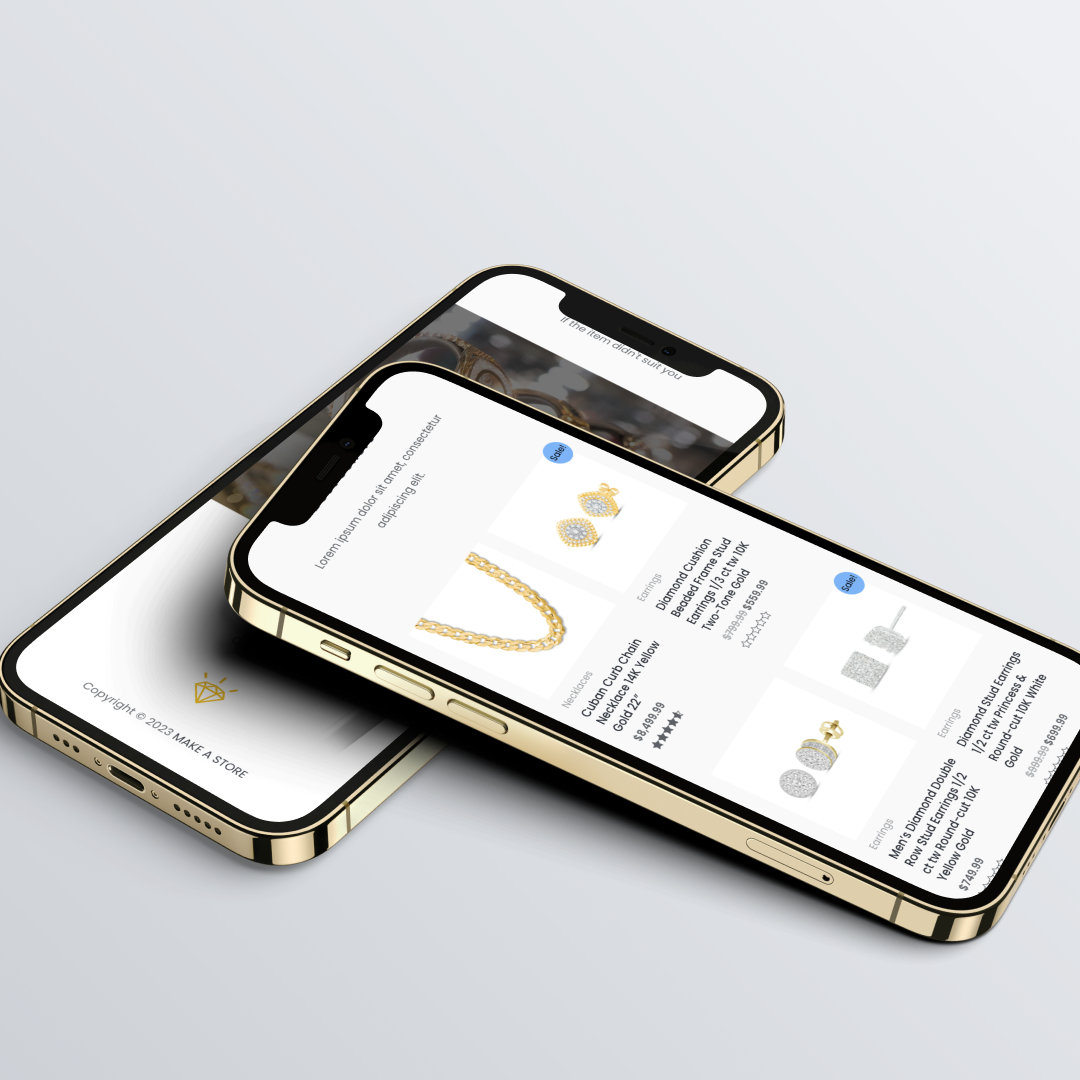
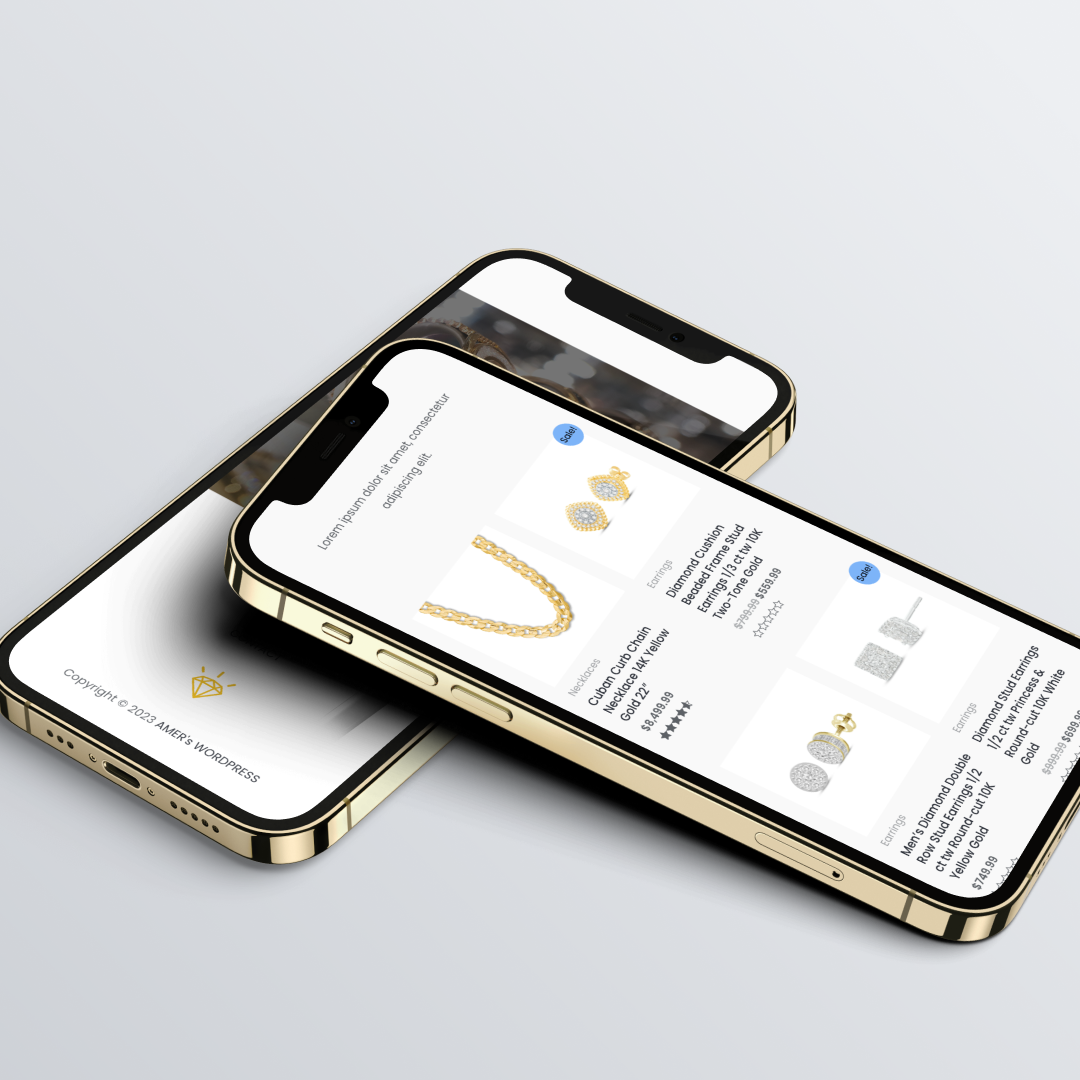
updated wp images

Changed region(s): [[0.0, 0.2139, 1.0, 0.8861], [0.0611, 0.6111, 0.0917, 0.6417]]

diff --git a/style.css b/style.css
@@ -1276,10 +1276,10 @@ body.menu-open .sidebar-nav-box {
 
 .preview-logo-layer {
   position: absolute;
-  top: 0;
-  bottom: 0;
-  left: 0;
-  right: 0;
+  top: 0px;
+  bottom: 8px;
+  left: 0px;
+  right: 0px;
   display: -webkit-box;
   display: -ms-flexbox;
   display: flex;
@@ -2526,6 +2526,9 @@ body.menu-open .sidebar-contact-info {
 }
 
 @media only screen and (max-width: 1300px) {
+  .preview-logo-layer {
+    bottom: 16px;
+  }
   .close-btn-text {
     display: initial;
   }
@@ -2613,6 +2616,9 @@ body.menu-open .sidebar-contact-info {
 }
 
 @media only screen and (max-width: 940px) {
+  .preview-logo-layer {
+    bottom: 8px;
+  }
   #projects-promo {
     height: initial;
     padding-bottom: 30px;
@@ -2911,6 +2917,9 @@ body.menu-open .sidebar-contact-info {
 }
 
 @media only screen and (max-width: 500px) {
+  .preview-logo-layer {
+    bottom: 16px;
+  }
   #osc-project .preview-logo {
     -webkit-transform: initial;
             transform: initial;

diff --git a/style.scss b/style.scss
@@ -975,10 +975,10 @@ body.menu-open .sidebar-nav-box {
 }
 .preview-logo-layer {
   position: absolute;
-  top: 0;
-  bottom: 0;
-  left: 0;
-  right: 0;
+  top: 0px;
+  bottom: 8px;
+  left: 0px;
+  right: 0px;
   display: flex;
   flex-direction: column;
   justify-content: center;
@@ -1917,6 +1917,9 @@ body.menu-open .sidebar-contact-info {
   }
 }
 @media only screen and (max-width: 1300px) {
+  .preview-logo-layer {
+    bottom: 16px;
+  }
   .close-btn-text {
     display: initial;
   }
@@ -1992,6 +1995,9 @@ body.menu-open .sidebar-contact-info {
   }
 }
 @media only screen and (max-width: 940px) {
+  .preview-logo-layer {
+    bottom: 8px;
+  }
   #projects-promo {
     height: initial;
     padding-bottom: 30px;
@@ -2247,6 +2253,9 @@ body.menu-open .sidebar-contact-info {
   }
 }
 @media only screen and (max-width: 500px) {
+  .preview-logo-layer {
+    bottom: 16px;
+  }
   #osc-project .preview-logo {
     transform: initial;
   }

diff --git a/index.html b/index.html
@@ -1458,9 +1458,9 @@
                     website. In this case, the Astra theme I used doesn't allow
                     full customization unless you pay for the upgraded version.
                     There were many times I found myself wanting to do something
-                    that's usually simple with CSS, however this Astra theme
-                    wanted you to purchase the full version for those abilities,
-                    like making the navbar sticky for example.
+                    that's usually simple with CSS, however the full version was
+                    required for that extra control, like wanting to make the
+                    navbar sticky for example.
                   </div>
                 </div>
               </div>
